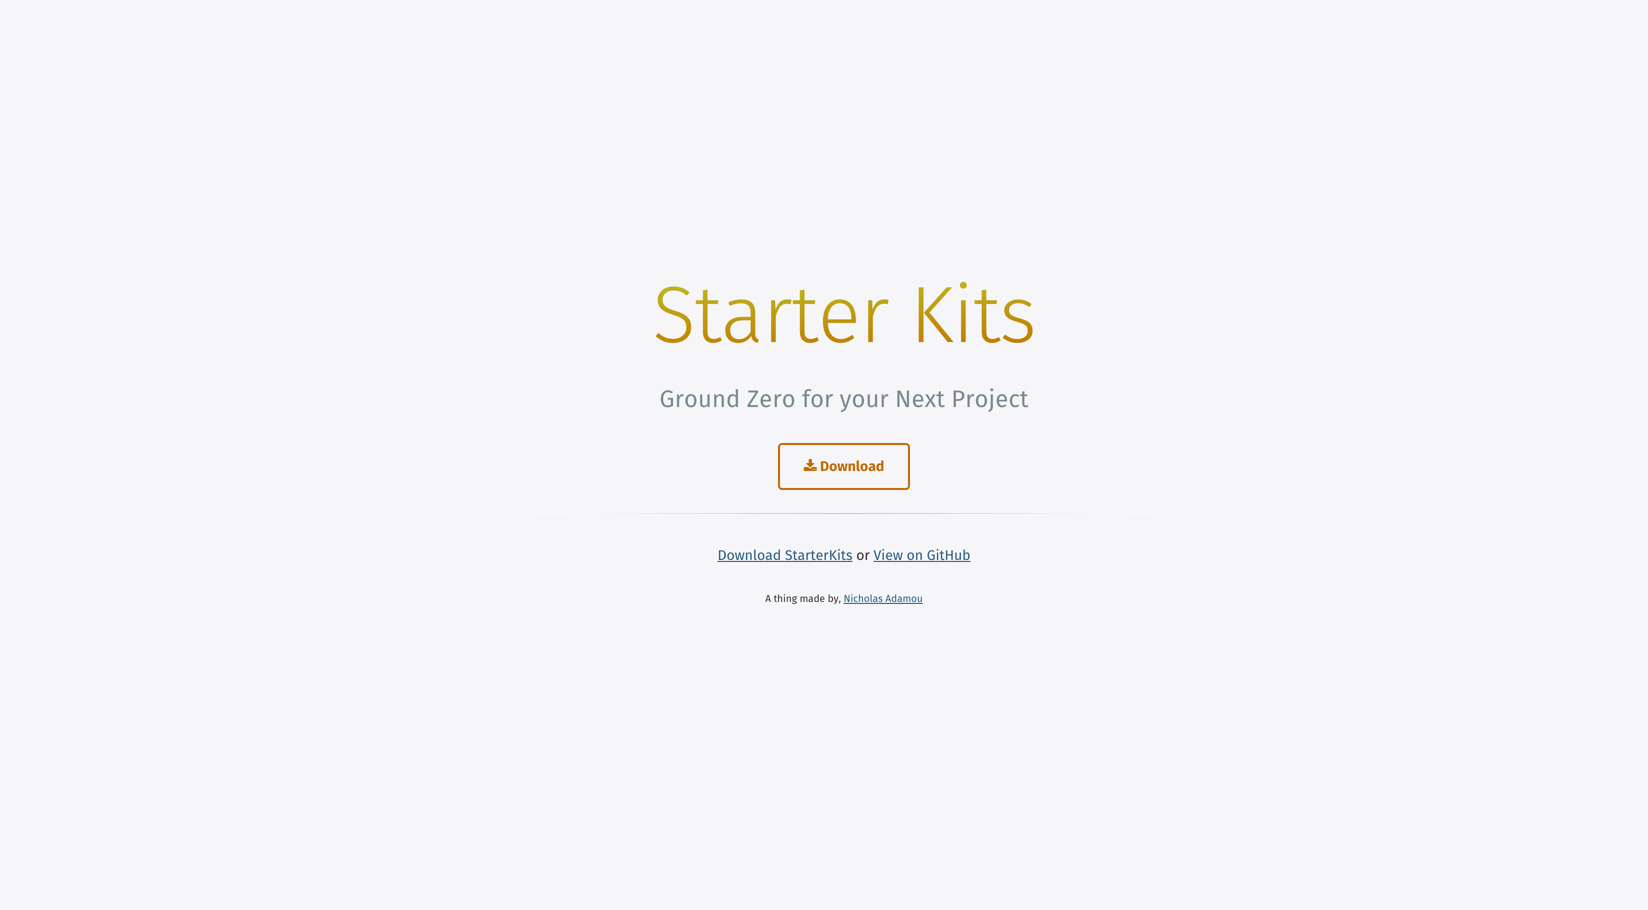
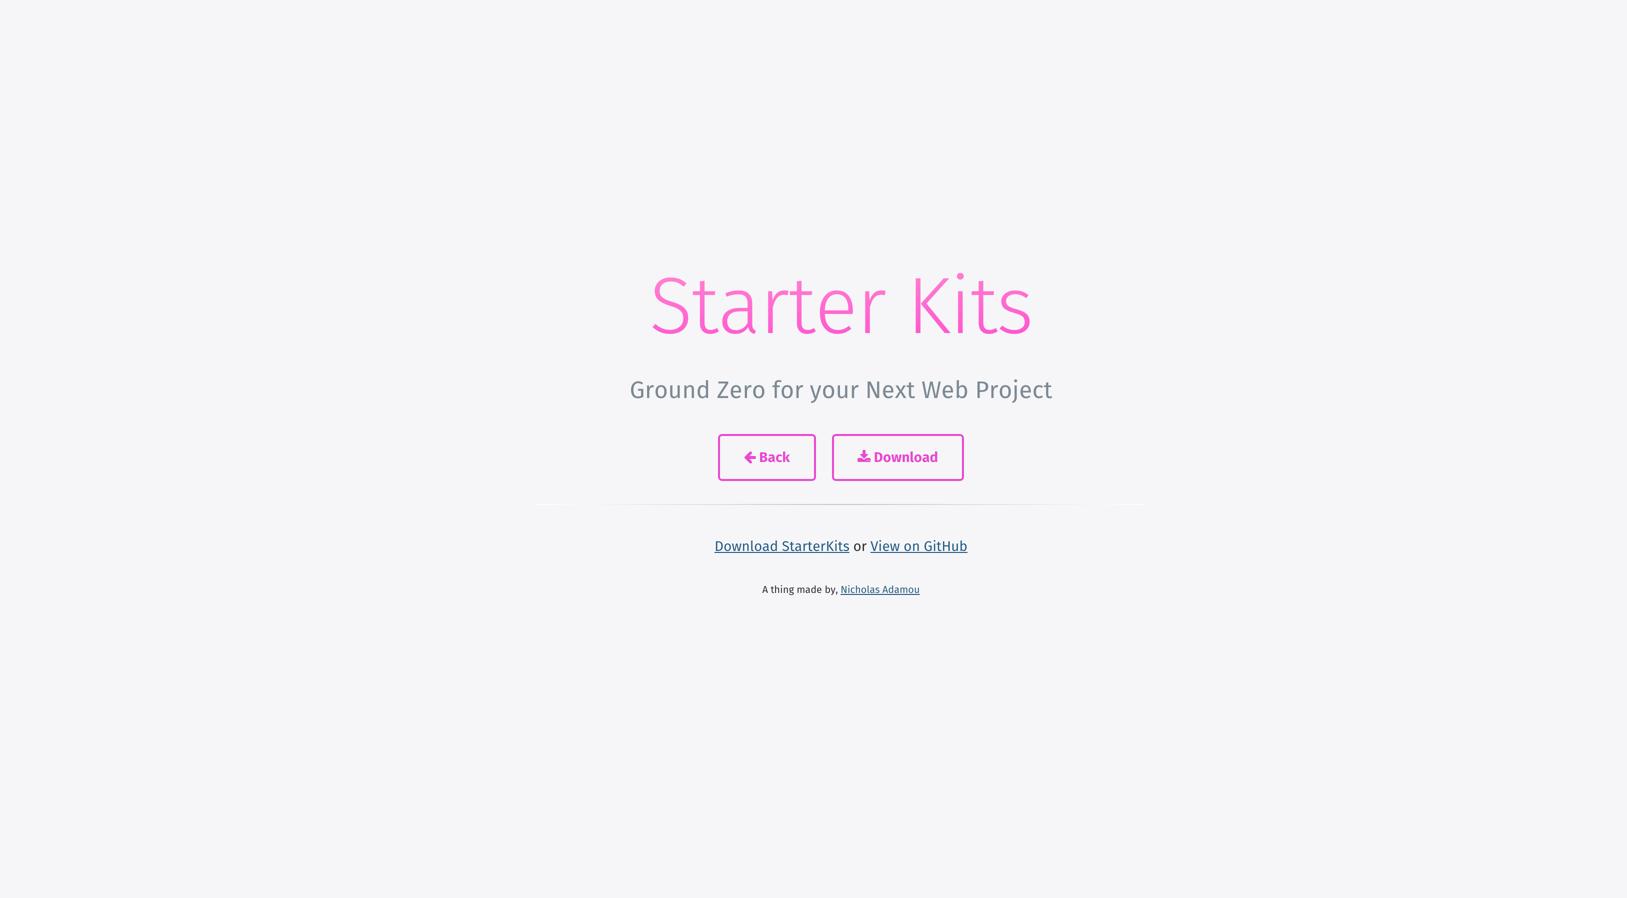
Minor Update

diff --git a/Website/index.html b/Website/index.html
@@ -4,24 +4,25 @@
     <title>Starter Kit</title>
     <meta charset="utf-8">
     <meta name="viewport" content="width=device-width">
-    <link rel="stylesheet" href="/assets/css/index.css">
+    <link rel="stylesheet" href="assets/css/index.css">
     <link rel="shortcut icon" href="favicon.ico">
     <body> 
       <header class="island">
         <div class="wrapper">
-          <h1>Starter Kits</h1><span class="subhead">Ground Zero for your Next Project</span>
+          <h1>Starter Kits</h1><span class="subhead">Ground Zero for your Next Web Project</span>
         </div>
       </header>
       <main class="island">
-        <div class="wrapper"><a href="https://github.com/NickAdamou/StarterKits/archive/master.zip">
+        <div class="wrapper"><a href="../../../index.html" class="link">
+            <button class="btn"><i class="fa fa-arrow-left"></i> Back</button></a><a href="https://github.com/NickAdamou/StarterKits/archive/master.zip" class="link">
             <button class="btn"><i class="fa fa-download"></i> Download</button></a>
           <hr>
           <p><a href="https://github.com/NickAdamou/StarterKits/archive/master.zip">Download StarterKits</a> or <a href="https://github.com/NickAdamou/StarterKits" target="_blank">View on GitHub</a></p><small>A thing made by, <a href="http://nicholasadamou.me/" target="_blank">Nicholas Adamou</a></small>
         </div>
       </main>
     </body>
-    <script src="/assets/js/0-tools/min/jquery-2.1.4-min.js">
-      <script src="/assets/js/functions.js"></script>
+    <script src="assets/js/0-tools/min/jquery-2.1.4-min.js">
+      <script src="assets/js/functions.js"></script>
     </script>
   </head>
 </html>
